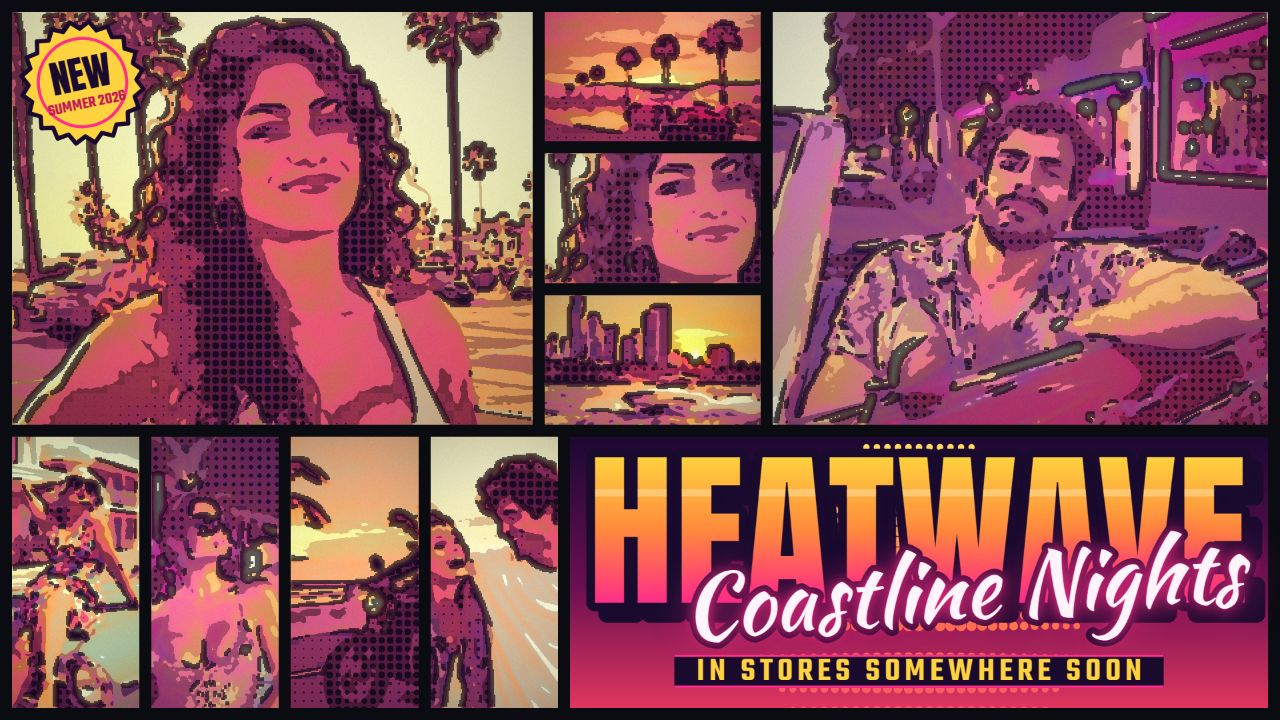
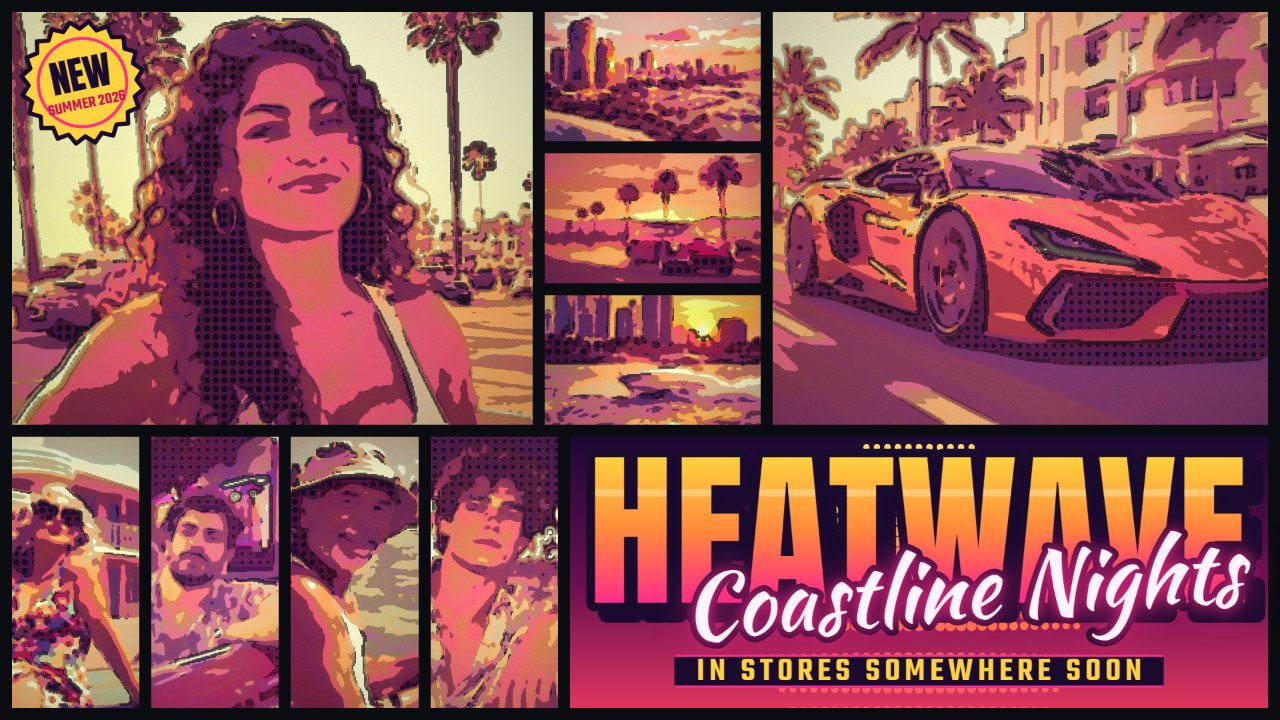
Step 3 (M2): cleaner Poster Ink (skin mask: 40% ink on skin and no dots; line weight and density follow panel size; halftone only below 0.22); shot 1 re-exported with 9 distinct photos, supercar in the big panel, four faces in the tall row

diff --git a/app/src/engine/ink.js b/app/src/engine/ink.js
@@ -4,21 +4,42 @@
 
 const INK = [18, 10, 28]; // #120a1c
 
-// Full Poster Ink pass on one graded panel. lumHalf comes from smoothForInk(), taken before the grade.
-export function posterInk(imageData, lumHalf, { coverW, strength = 0.8, paper = [200, 80, 120], seed = 1 }) {
+// Full Poster Ink pass on one graded panel. lumHalf comes from smoothForInk(), taken before the grade; skin comes from
+// skinMaskBeforeGrade() (1 = skin-coloured pixel), so faces get lighter lines and no dots.
+// Ink weight follows the panel: a 200 px strip gets 1 px lines and fewer of them, a hero panel the full W/640 weight.
+export function posterInk(imageData, lumHalf, { coverW, strength = 0.8, paper = [200, 80, 120], seed = 1, skin = null }) {
   const s = Math.max(0, Math.min(1, strength));
   if (s <= 0) return imageData;
+  const short = Math.min(imageData.width, imageData.height);
+  const sizeK = Math.max(0, Math.min(1, (short - 160) / 440)); // 0 for a small strip, 1 for a hero panel
   posterize(imageData, 5, s);
   liftToMeanLuminance(imageData, 0.47);
-  halftoneShadows(imageData, { cell: Math.max(4, Math.round(coverW / 150)), paper, strength: s });
-  sobelInkLines(imageData, lumHalf, { lineWidth: Math.max(2, Math.round(coverW / 640)), alpha: 0.85 * s });
+  halftoneShadows(imageData, { cell: Math.max(4, Math.round(coverW / 150)), paper, strength: s, skin });
+  sobelInkLines(imageData, lumHalf, {
+    lineWidth: Math.max(1, Math.round((coverW / 640) * (0.5 + 0.5 * sizeK))),
+    alpha: 0.85 * s, keep: 0.08 + 0.04 * sizeK, skin,
+  });
   return imageData;
 }
 
-// Halftone dots where the panel is darker than 0.28: shadows become dot screens on a lifted "paper" tone.
-export function halftoneShadows(imageData, { cell, paper, strength }) {
+// Skin mask from the crop before the grade (a classic RGB skin-tone rule, per pixel). The grade recolours
+// everything, so this is the only point where skin can still be told apart.
+export function skinMaskBeforeGrade(imageData) {
   const { width: w, height: h, data: d } = imageData;
-  const cutoff = 0.28 * 255;
+  const m = new Uint8Array(w * h);
+  for (let p = 0, i = 0; p < m.length; p++, i += 4) {
+    const r = d[i], g = d[i + 1], b = d[i + 2];
+    const mx = Math.max(r, g, b), mn = Math.min(r, g, b);
+    m[p] = r > 90 && g > 40 && b > 20 && r > g && r > b && mx - mn > 18 && r - g > 12 && r - g < 110 && g > b * 0.9 ? 1 : 0;
+  }
+  return m;
+}
+
+// Halftone dots only in the deep shadows (darker than 0.22, never on skin): shadows become dot screens on a lightly
+// lifted "paper" tone, mid-tones stay flat colour.
+export function halftoneShadows(imageData, { cell, paper, strength, skin = null }) {
+  const { width: w, height: h, data: d } = imageData;
+  const cutoff = 0.22 * 255;
   for (let cy = 0; cy < h; cy += cell) {
     for (let cx = 0; cx < w; cx += cell) {
       const x1 = Math.min(w, cx + cell), y1 = Math.min(h, cy + cell);
@@ -32,11 +53,11 @@ export function halftoneShadows(imageData, { cell, paper, strength }) {
       for (let y = cy; y < y1; y++) {
         for (let x = cx; x < x1; x++) {
           const i = (y * w + x) * 4;
-          if (lum(d, i) > cutoff) continue;
+          if (lum(d, i) > cutoff || (skin && skin[y * w + x])) continue;
           const dx = x + 0.5 - mx, dy = y + 0.5 - my;
           const inDot = dx * dx + dy * dy <= r2;
           const target = inDot ? INK : paper;
-          const a = (inDot ? 0.8 : 0.32) * strength;
+          const a = (inDot ? 0.75 : 0.22) * strength;
           d[i] += (target[0] - d[i]) * a; d[i + 1] += (target[1] - d[i + 1]) * a; d[i + 2] += (target[2] - d[i + 2]) * a;
         }
       }
@@ -45,8 +66,9 @@ export function halftoneShadows(imageData, { cell, paper, strength }) {
   return imageData;
 }
 
-// Ink lines: Sobel magnitude on a half-size luminance copy, keep the strongest 12 %, dilate, draw in #120a1c.
-export function sobelInkLines(imageData, lumHalf, { lineWidth, alpha }) {
+// Ink lines: Sobel magnitude on a half-size luminance copy, keep the strongest 8-12 % (fewer in small panels),
+// dilate, draw in #120a1c; on skin the line is drawn at 40 % so faces read as faces, not as cracks.
+export function sobelInkLines(imageData, lumHalf, { lineWidth, alpha, keep = 0.12, skin = null }) {
   const { width: w, height: h, data: d } = imageData;
   const { w: hw, h: hh } = lumHalf;
   const L = smooth3(lumHalf.lum, hw, hh);
@@ -65,7 +87,7 @@ export function sobelInkLines(imageData, lumHalf, { lineWidth, alpha }) {
     }
   }
   let thr = 0, acc = 0;
-  const want = count * 0.88;
+  const want = count * (1 - keep);
   for (let b = 0; b < 1024; b++) { acc += hist[b]; if (acc >= want) { thr = b; break; } }
   thr = Math.max(thr, 72);
   // Edge mask at full size (nearest upsample of the half-size mask), then a square dilation.
@@ -78,7 +100,8 @@ export function sobelInkLines(imageData, lumHalf, { lineWidth, alpha }) {
   if (r > 0) mask = dilate(mask, w, h, r);
   for (let p = 0, i = 0; p < mask.length; p++, i += 4) {
     if (!mask[p]) continue;
-    d[i] += (INK[0] - d[i]) * alpha; d[i + 1] += (INK[1] - d[i + 1]) * alpha; d[i + 2] += (INK[2] - d[i + 2]) * alpha;
+    const a = skin && skin[p] ? alpha * 0.4 : alpha;
+    d[i] += (INK[0] - d[i]) * a; d[i + 1] += (INK[1] - d[i + 1]) * a; d[i + 2] += (INK[2] - d[i + 2]) * a;
   }
   return imageData;
 }

diff --git a/app/src/dev/shot-scenes.js b/app/src/dev/shot-scenes.js
@@ -8,20 +8,21 @@ const SCENES = {
   'cover-keyart': {
     layoutId: 'keyArtNine', gradeId: 'sunsetStrip', size: [1920, 1080],
     caption: { title: 'HEATWAVE', subtitle: 'Coastline Nights', tagline: 'IN STORES SOMEWHERE SOON' },
-    photos: ['woman-palms', 'lady-motel', 'man-neon', 'pool-neon', 'coupe-desert', 'speedboat', 'moto-causeway', 'couple-pier'],
+    // Nine distinct photos, no face twice: hero, small wide column (skyline, neon motel, speedboat), tall row
+    // (four faces), big right panel (the supercar).
+    photos: ['woman-palms', 'marina-skyline', 'coupe-desert', 'speedboat', 'lady-motel', 'man-neon', 'pier-fisher', 'flamingo-boardwalk', 'supercar-boulevard'],
     panels: [
-      // hero, then the small wide column (bright scenes + one close-up), the tall row (portraits), the big right panel
       { photo: 0, zoom: 1, fx: 0.5, fy: 0.3 },
-      { photo: 4, zoom: 1.1, fx: 0.5, fy: 0.45 }, { photo: 0, zoom: 2.1, fx: 0.44, fy: 0.27 }, { photo: 5, zoom: 1.1, fx: 0.5, fy: 0.45 },
-      { photo: 1, zoom: 1, fx: 0.5, fy: 0.3 }, { photo: 3, zoom: 1.15, fx: 0.45, fy: 0.36 }, { photo: 6, zoom: 1, fx: 0.5, fy: 0.4 }, { photo: 7, zoom: 1.1, fx: 0.5, fy: 0.35 },
-      { photo: 2, zoom: 1.1, fx: 0.55, fy: 0.35 },
+      { photo: 1, zoom: 1.15, fx: 0.4, fy: 0.42 }, { photo: 2, zoom: 1.1, fx: 0.5, fy: 0.5 }, { photo: 3, zoom: 1.3, fx: 0.5, fy: 0.6 },
+      { photo: 4, zoom: 1.6, fx: 0.6, fy: 0.24 }, { photo: 5, zoom: 1.05, fx: 0.6, fy: 0.4 }, { photo: 6, zoom: 1.3, fx: 0.36, fy: 0.36 }, { photo: 7, zoom: 1.15, fx: 0.55, fy: 0.3 },
+      { photo: 8, zoom: 1.05, fx: 0.52, fy: 0.55 },
     ],
   },
   // Shot 3: 1080 x 1350, tilted snapshots over a neon sky.
   'cover-tall': {
     layoutId: 'tiltedSnapshots', gradeId: 'neonNight', size: [1080, 1350],
     caption: { title: 'SALT & SIRENS', subtitle: 'Harbor Run', tagline: 'ONE NIGHT ON THE WATERFRONT' },
-    photos: ['couple-pier', 'speedboat', 'pool-neon', 'man-neon', 'lady-motel'],
+    photos: ['couple-pier', 'marina-skyline', 'pool-neon', 'man-neon', 'motel-rain'],
     panels: [
       { photo: 0, zoom: 1, fx: 0.5, fy: 0.38 }, { photo: 1, zoom: 1, fx: 0.5, fy: 0.4 },
       { photo: 2, zoom: 1, fx: 0.5, fy: 0.4 }, { photo: 3, zoom: 1.1, fx: 0.5, fy: 0.35 }, { photo: 4, zoom: 1, fx: 0.5, fy: 0.3 },

diff --git a/app/src/engine/render.js b/app/src/engine/render.js
@@ -3,7 +3,7 @@
 
 import { layoutFor } from './layouts.js';
 import { applyGradeToPanel, gradeColorAt, autoLevelsBeforeGrade } from './grades.js';
-import { posterInk, smoothForInk, grainAndVignette, liftToMeanLuminance } from './ink.js';
+import { posterInk, smoothForInk, grainAndVignette, liftToMeanLuminance, skinMaskBeforeGrade } from './ink.js';
 import { drawTitleBlock, drawHalftoneSun, drawStickerBadge } from './lettering.js';
 
 // Draw the whole cover for `state` into ctx at W x H. opts.fastPanel: index of a panel being dragged (drawn with
@@ -98,10 +98,11 @@ function panelArt(photo, slot, pw, ph, state, W, i, fast) {
   const cctx = c.getContext('2d', { willReadFrequently: true });
   drawCrop(cctx, photo, slot, pw, ph);
   const data = cctx.getImageData(0, 0, pw, ph);
+  const skin = ink ? skinMaskBeforeGrade(data) : null;
   const lumHalf = ink ? smoothForInk(data, W) : null;
   autoLevelsBeforeGrade(data);
   applyGradeToPanel(data, state.gradeId);
-  if (ink) posterInk(data, lumHalf, { coverW: W, strength: state.ink.strength, paper: gradeColorAt(state.gradeId, 0.5), seed: 17 + i * 101 });
+  if (ink) posterInk(data, lumHalf, { coverW: W, strength: state.ink.strength, paper: gradeColorAt(state.gradeId, 0.5), seed: 17 + i * 101, skin });
   else liftToMeanLuminance(data, 0.44);
   grainAndVignette(data, 911 + i * 37);
   cctx.putImageData(data, 0, 0);
